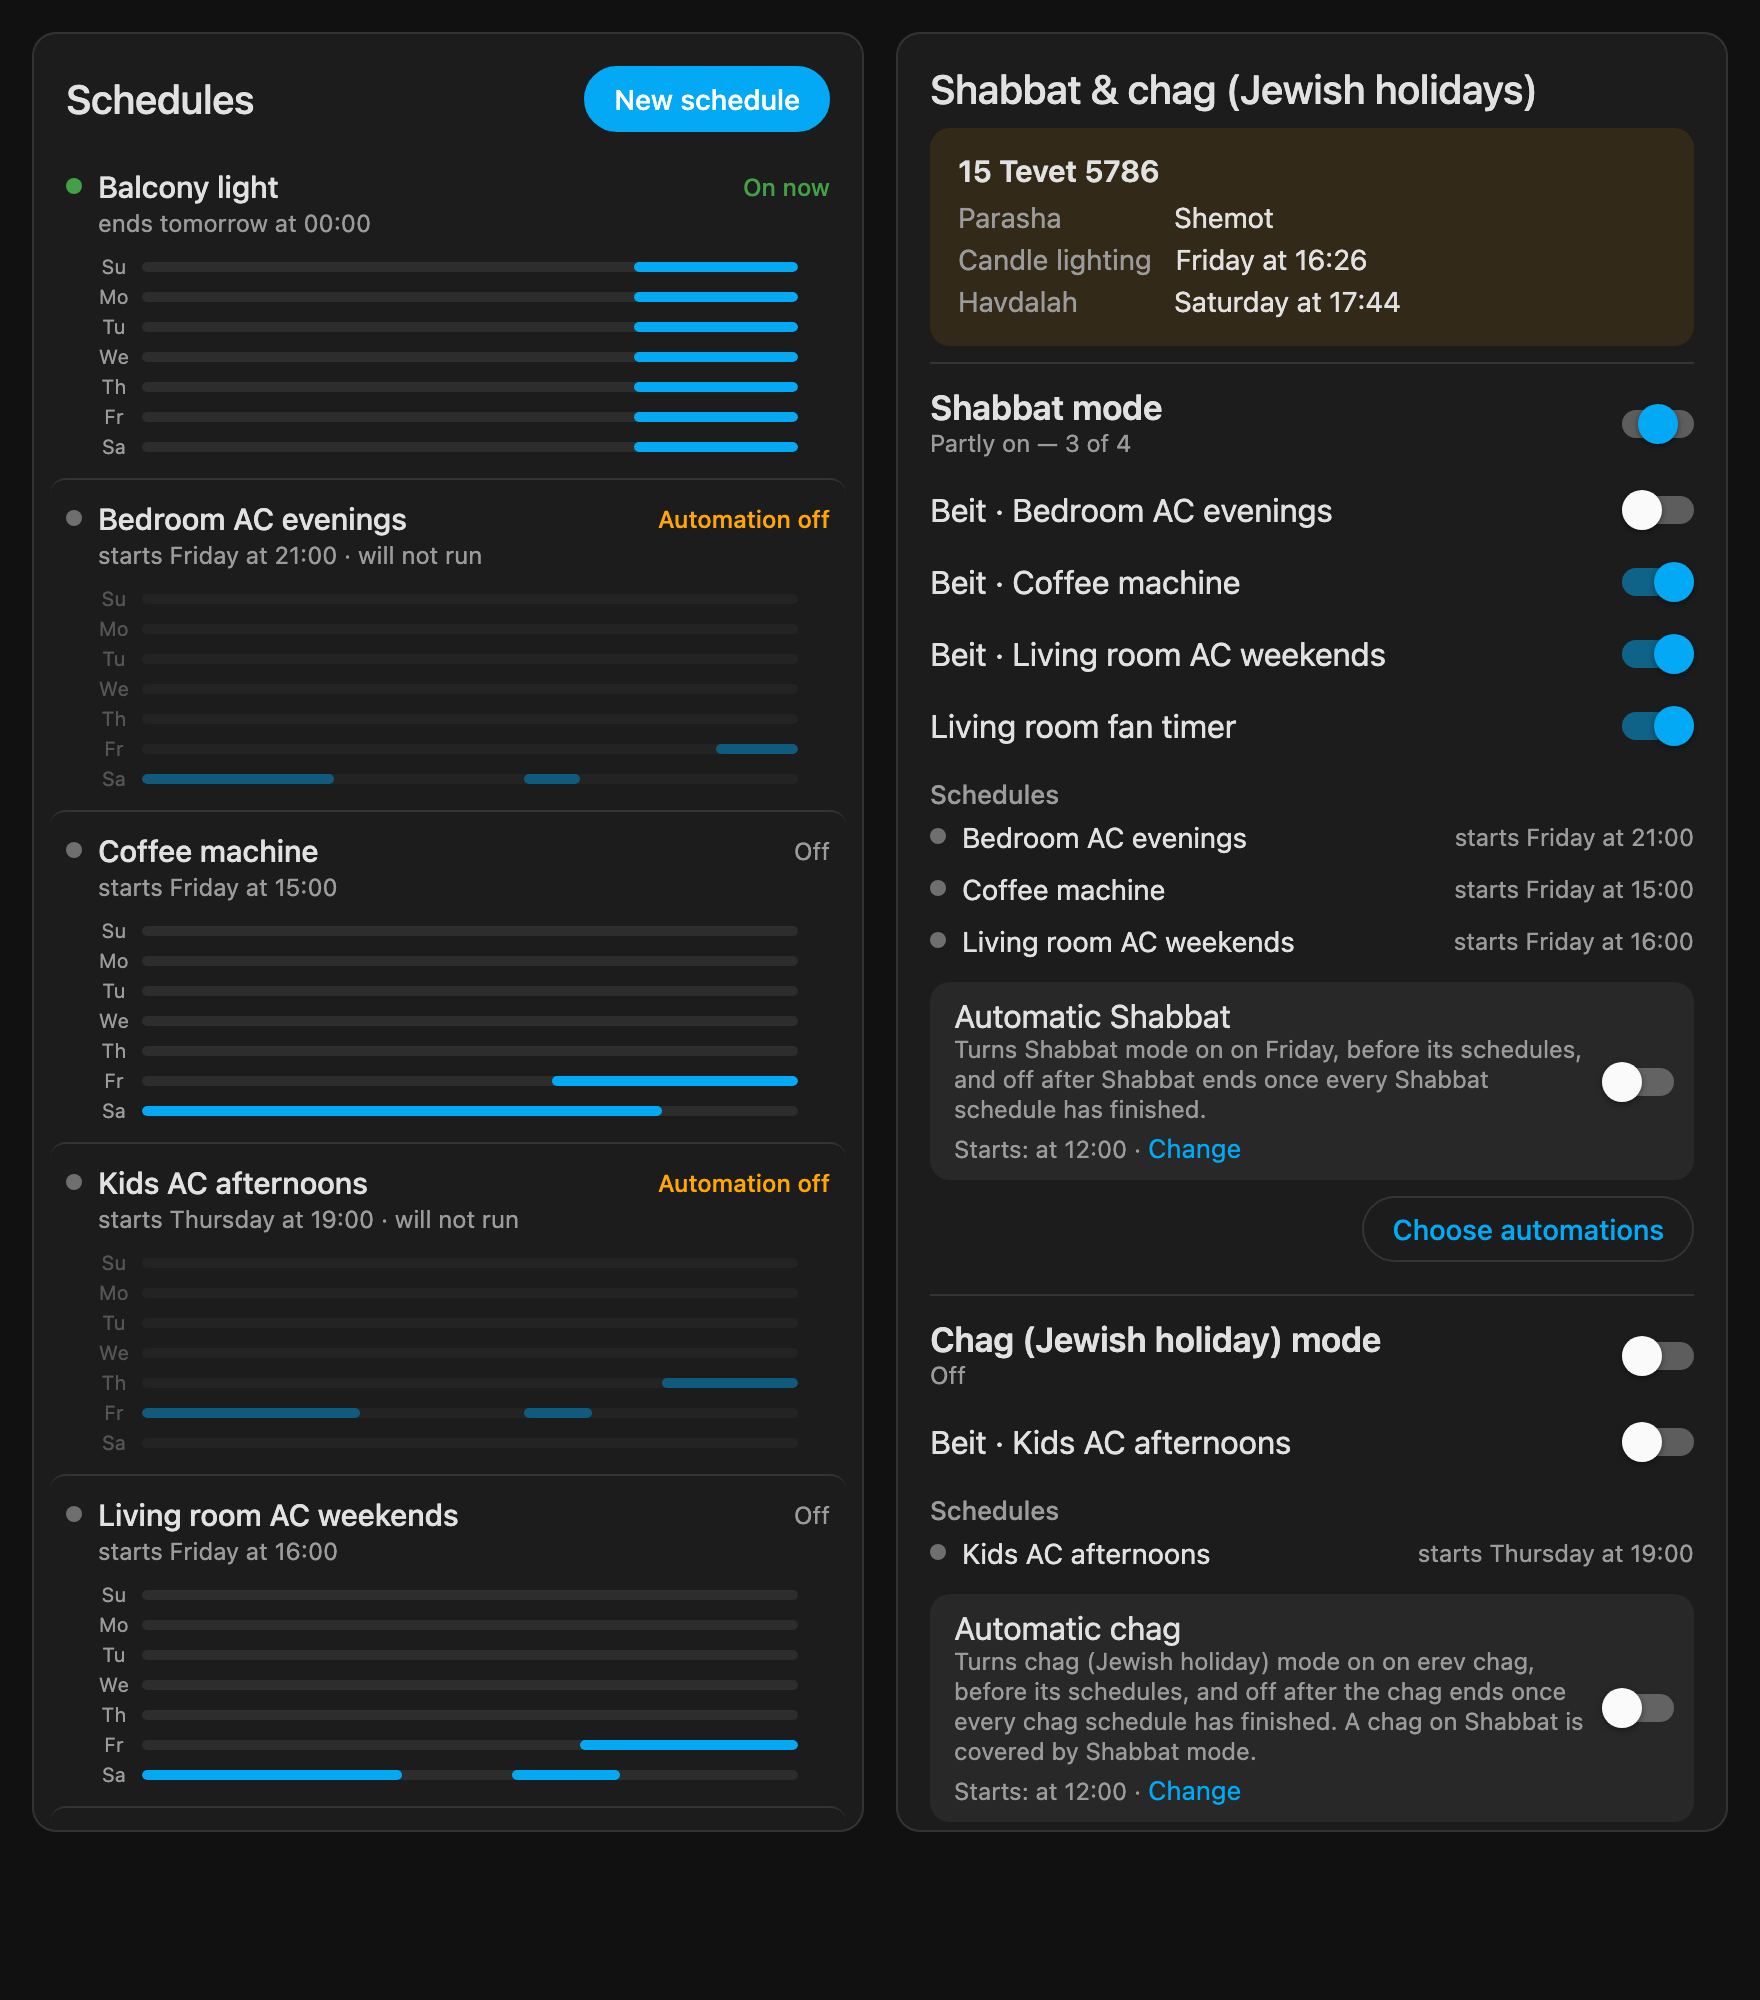
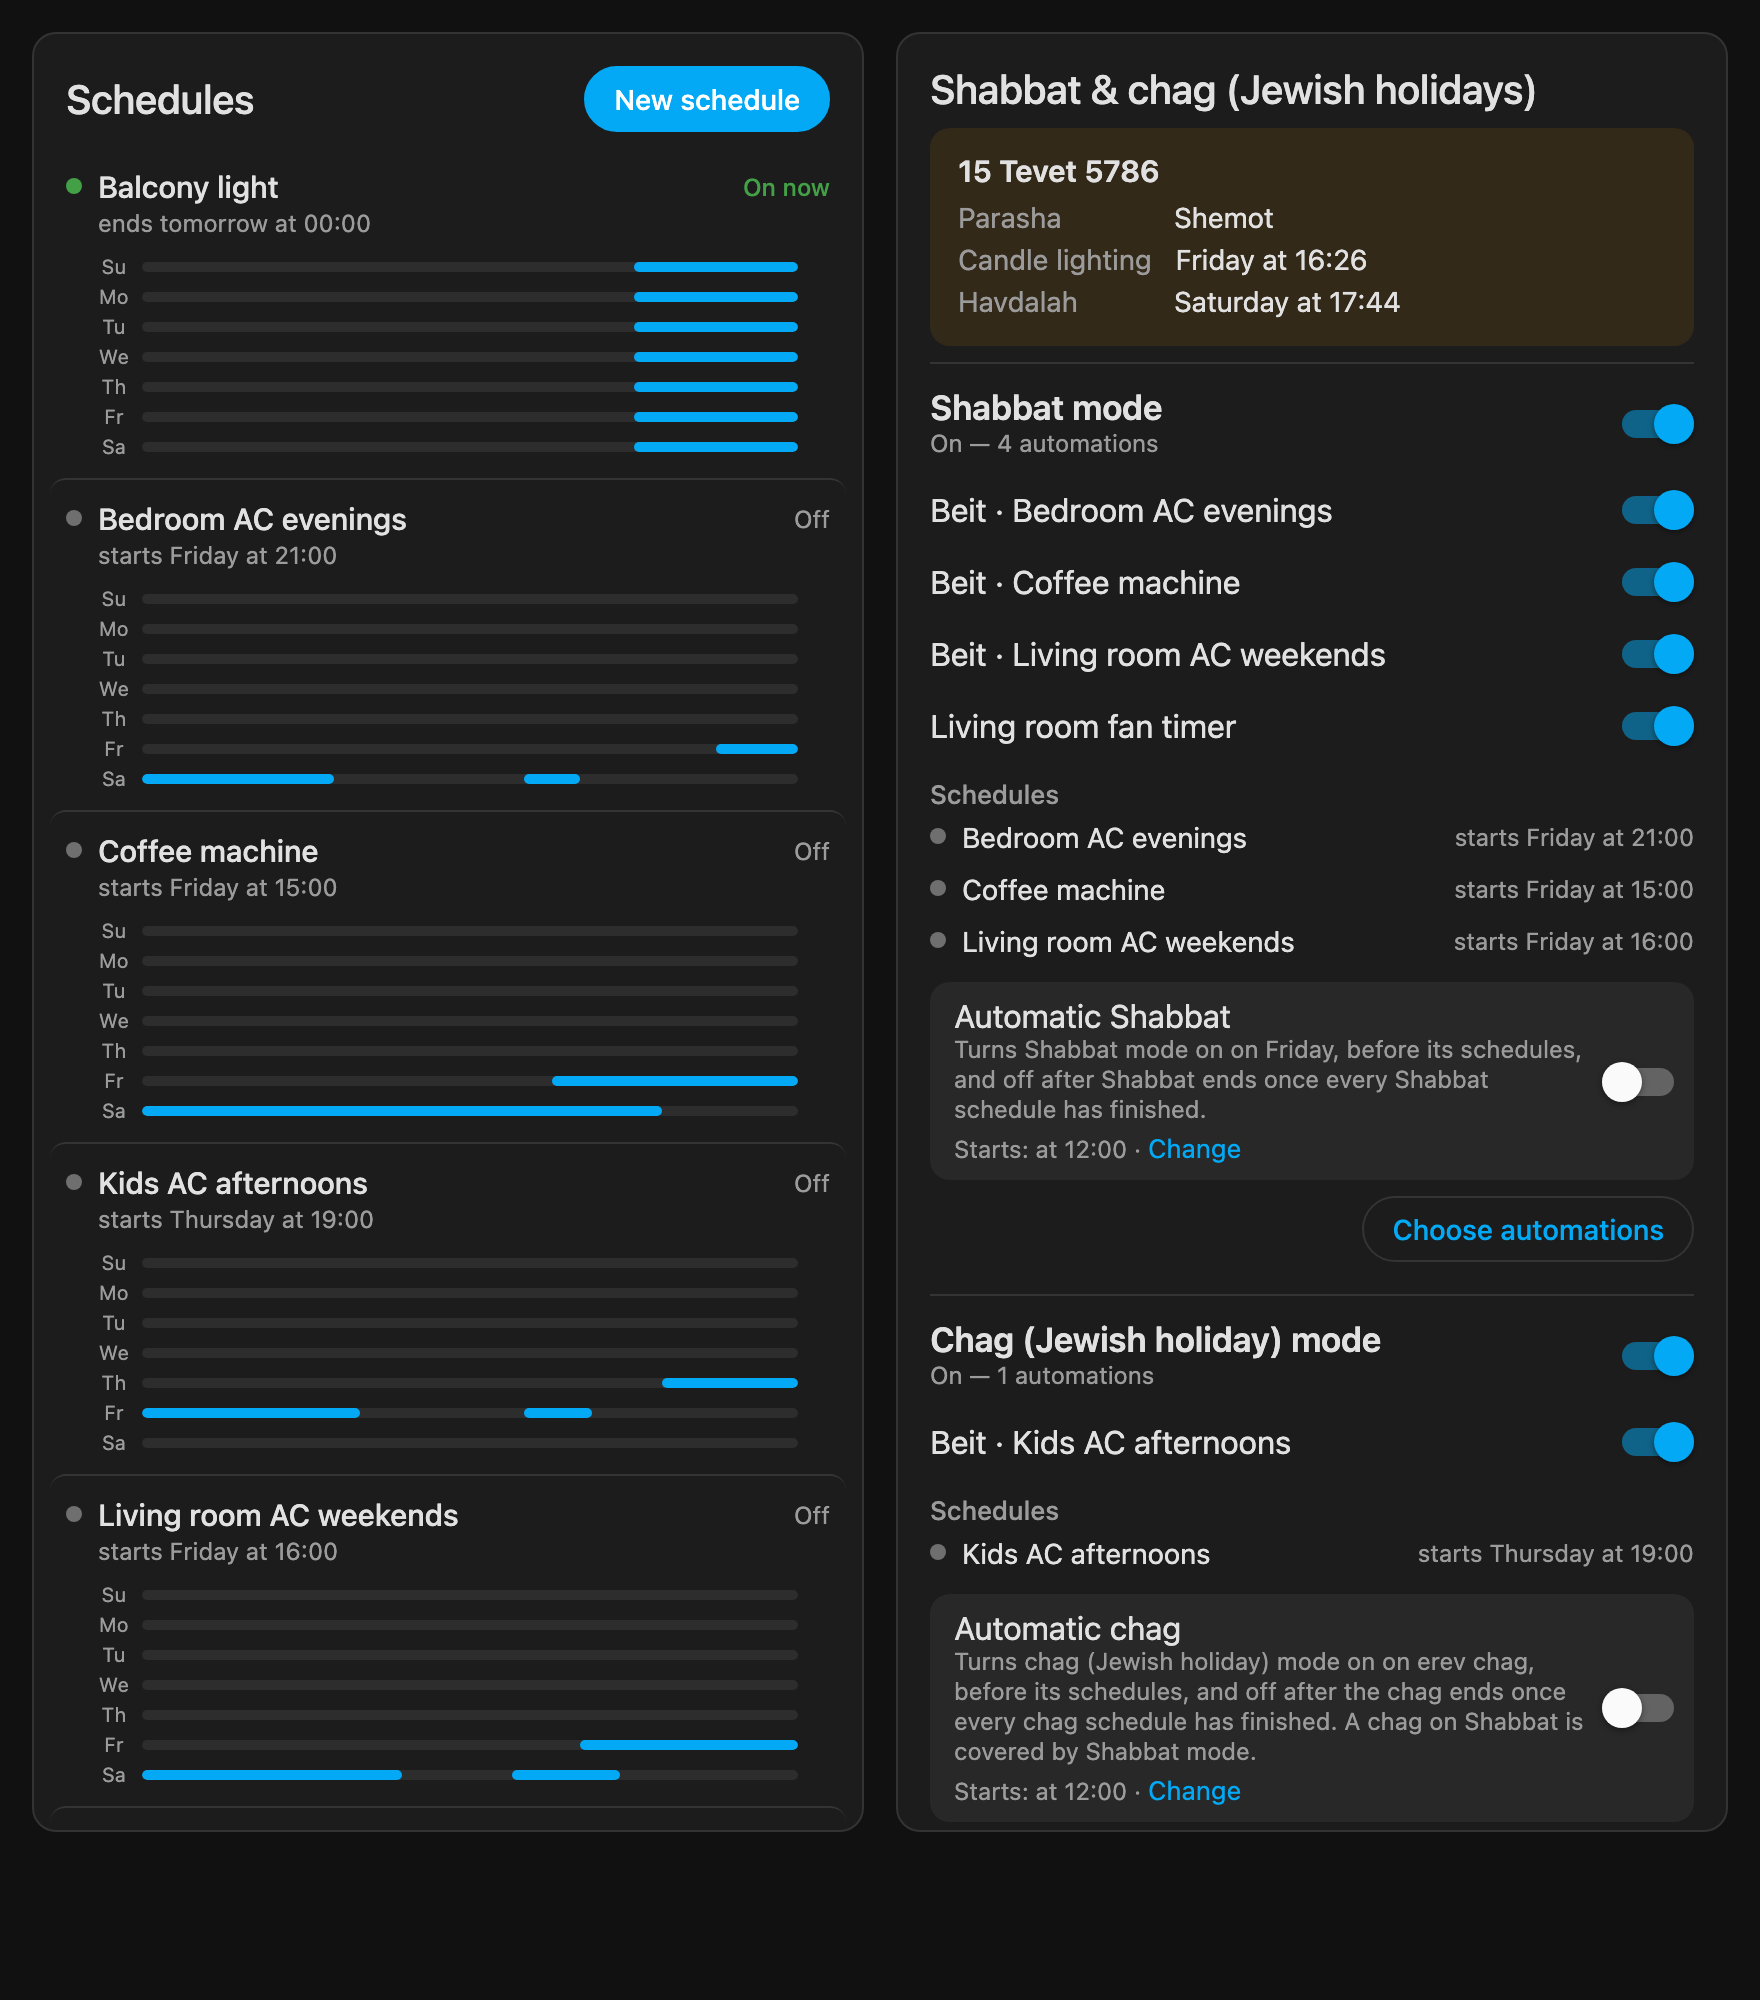
Take the screenshots with every demo automation on
The preview takes ?automations=on, which switches every automation in the synthetic
house on; the screenshots use it, so the README shows no 'Automation off' rows. The
fixtures the tests use are unchanged.

diff --git a/dev/card-preview.html b/dev/card-preview.html
@@ -83,6 +83,10 @@
     const names = ['states', 'schedule_list', 'automation_configs', 'label_registry', 'entity_registry_display', 'area_registry', 'device_registry', 'yaml_schedules'];
     let fixtures = Object.fromEntries(await Promise.all(names.map(async (n) => [n, await (await fetch(`../tests/fixtures/${n}.json`)).json()])));
     if (lang === 'en') fixtures = (await import('./english-house.mjs')).englishHouse(fixtures);
+    // ?automations=on: every automation switched on, for screenshots without "Automation off" rows.
+    if (q.get('automations') === 'on') {
+      fixtures = { ...fixtures, states: fixtures.states.map((s) => (s.entity_id.startsWith('automation.') ? { ...s, state: 'on' } : s)) };
+    }
     const fake = new FakeHass(fixtures, { isAdmin: q.get('admin') !== '0', language: lang, stateDelay: 300 });
     window.fake = fake;
     source = fake;
